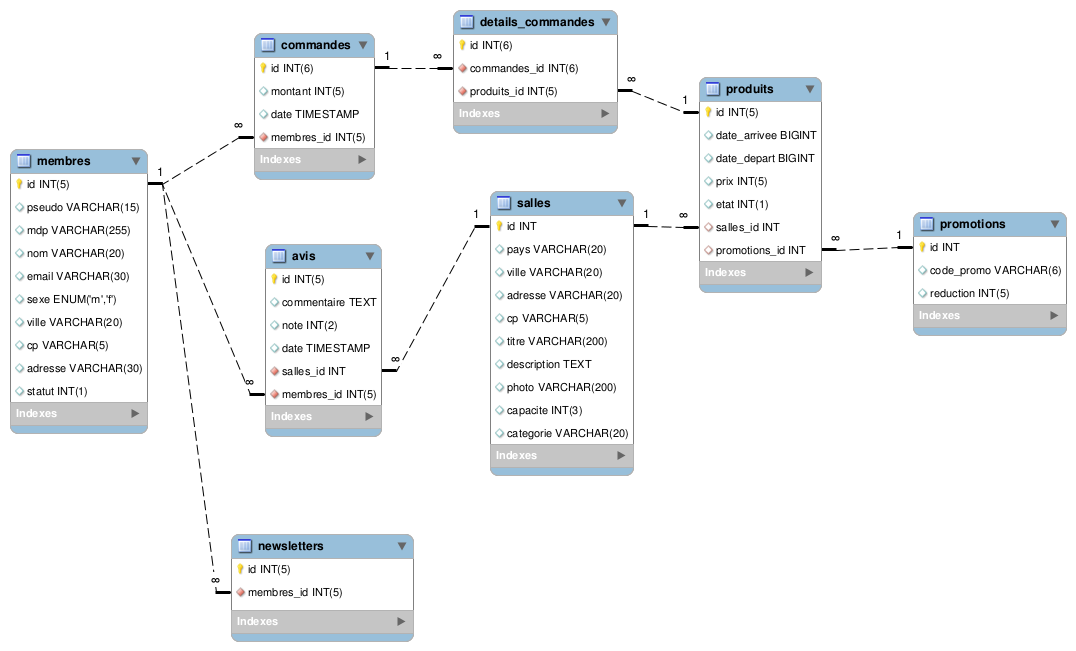
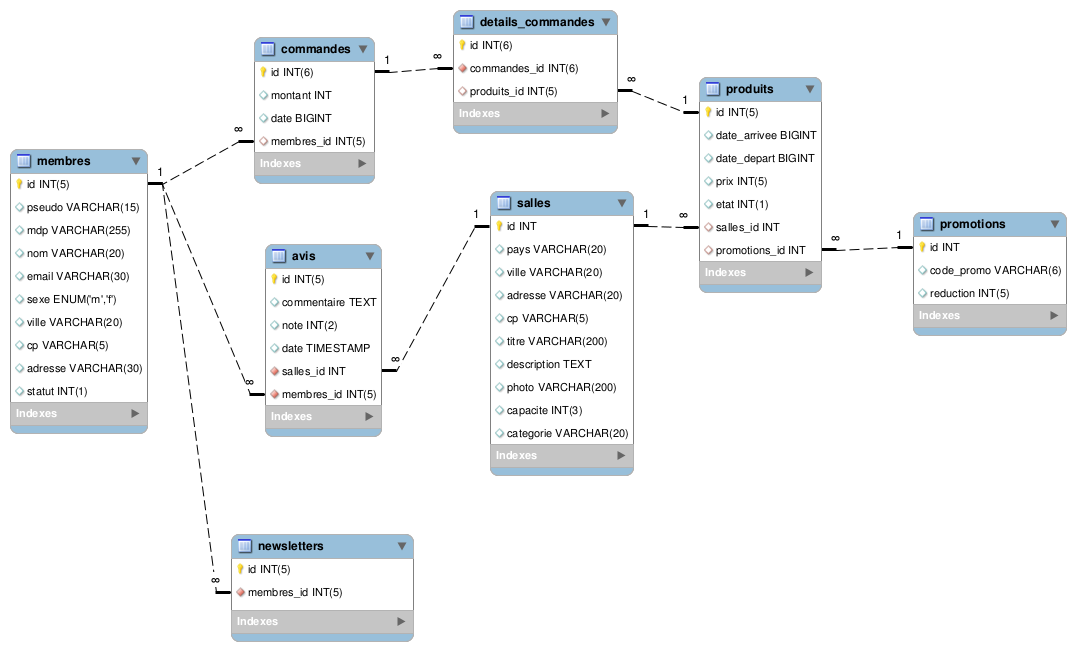
les commandes sont maintenant enregistrées en bdd

Changed region(s): [[0.184, 0.0307, 0.3987, 0.3072], [0.1533, 0.2458, 0.184, 0.2765]]

diff --git a/models/Commande.php b/models/Commande.php
@@ -1,0 +1,72 @@
+<?php
+
+class Commande extends Model
+{
+    protected $id;
+    protected $montant;
+    protected $date;
+    protected $membres_id;
+    protected $produits;
+
+    const INVALID_COMMANDE = 'La commande est invalide.';
+
+    public function getId()         { return $this->id; }
+    public function getMontant()    { return $this->montant; }
+    public function getDate()       { return $this->date; }
+    public function getMembres_id() { return $this->membres_id; }
+    public function getProduits()   { return $this->membres_id; }
+
+    public function __construct( $db, $commande )
+    {
+        parent::__construct($db);
+
+        $this->setMontant( $commande['montant'] );
+        $this->date = time();
+        $this->setMembres_id( $commande['membres_id'] );
+        $this->setProduits( $commande['produits'] );
+    }
+
+    public function setMontant( $montant )
+    {
+        $this->montant = (int) $montant;
+    }
+
+    public function setMembres_id( $membres_id )
+    {
+        $this->membres_id = (int) $membres_id;
+    }
+
+    public function setProduits( $produits )
+    {
+        $collector = new ProduitCollector($this->db);
+        $this->produits = $collector->getProduits( $produits, 'id' );
+    }
+
+    public function insert()
+    {
+        if (
+            empty($this->montant)
+            || empty($this->date)
+            || empty($this->membres_id)
+            || empty($this->produits)
+        ) {
+            throw new Exception(self::INVALID_COMMANDE);
+        }
+
+        /* insertion dans la table commandes */
+        $sql = "INSERT INTO commandes
+                VALUES ('',
+                        " . $this->getMontant() . ",
+                        " . $this->getDate()    . ",
+                        " . $this->getMembres_id() . ");";
+
+        $this->exequery($sql);
+
+        /* insertion dans la table details_commandes */
+        $this->id = $this->db->insert_id;
+
+        foreach ( $this->produits as $produit ) {
+            $this->exequery("INSERT INTO details_commandes VALUES ('', " . $this->id . ", " . $produit['id'] . " );");
+        }
+    }
+}

diff --git a/controllers/PanierController.php b/controllers/PanierController.php
@@ -5,6 +5,8 @@ class PanierController extends MembreController
     const ADD_SUCCESS = 'Le produit a bien été ajouté au panier.';
     const REM_SUCCESS = 'Le produit a bien été supprimé du panier.';
     const PROMO_SUCCESS = 'La promotion a bien été appliquée au panier.';
+    const COMMANDE_SUCCESS = 'Votre commande a bien été enregistrée, merci !';
+    const CGV = 'Vous devez accepter les conditions générales de vente avant de pouvoir valider votre commande.';
 
     public function index()
     {
@@ -80,5 +82,29 @@ class PanierController extends MembreController
 
         Session::set( 'panier', $panier->toSession() );
         $this->quit('/panier', 'events.panier.msg', self::PROMO_SUCCESS);
+    }
+
+    public function payer()
+    {
+        if ( !isset($_POST['payer']) ) {
+            $this->quit('/panier');
+        }
+
+        if ( empty($_POST['cgv_ok']) ) {
+            $this->quit('/panier', 'events.panier.msg', self::CGV);
+        }
+
+        $panier = $this->loadModel('Panier', Session::get('panier'));
+
+        $commande = $this->loadModel('Commande', $panier->toDb());
+
+        try {
+            $commande->insert();
+        } catch (Exception $e) {
+            $this->quit('/panier', 'events.panier.msg', $e->getMessage());
+        }
+
+        $panier->clear();
+        $this->quit('/panier', 'events.panier.msg', self::COMMANDE_SUCCESS);
     }
 }

diff --git a/models/Panier.php b/models/Panier.php
@@ -119,11 +119,11 @@ class Panier extends Model
     /**
      * Calcule et renvoie le montant total de la TVA à appliquer au panier
      * @param  int   $total le montant total HT
-     * @return float        le montant de la TVA à ajouter au total HT
+     * @return int          le montant de la TVA à ajouter au total HT
      */
     public function calcTVA( $total )
     {
-        return $total * self::TVA/100;
+        return floor($total * self::TVA/100);
     }
 
     /**
@@ -211,6 +211,24 @@ class Panier extends Model
             'promo' => $promo,
             'totalHTPromo' => $totalHTPromo,
             'tva' => $this->calcTVA($totalHTPromo)
+        ];
+    }
+
+    /**
+     * Renvoie les données du panier telles qu'elles pourront être traitées par une Commande
+     *
+     * @return array
+     */
+    public function toDb()
+    {
+        $promo = $this->calcPromotionsTotal();
+        $totalHTPromo = $this->calcProduitsTotal( $promo );
+        $montant = $totalHTPromo + $this->calcTVA($totalHTPromo);
+
+        return [
+            'montant'    => $montant,
+            'membres_id' => Session::get('user.id'),
+            'produits'   => array_keys($this->produits)
         ];
     }
 }

diff --git a/views/panier/index.php b/views/panier/index.php
@@ -100,6 +100,11 @@
         <p>Utiliser un code promo&nbsp;: <input type="text" name="code_promo"><input type="submit"></p>
       </form>
 
+
+      <form method="post" action="<?= racine() ?>/panier/payer">
+        <p class="tright">Je déclare accepter les <a href="<?= racine() ?>/cgv">conditions générales de vente</a> : <input type="checkbox" name="cgv_ok"> <input type="submit" name="payer" value="PAYER"></p>
+      </form>
+
     <?php endif; ?>
 
   </div>
